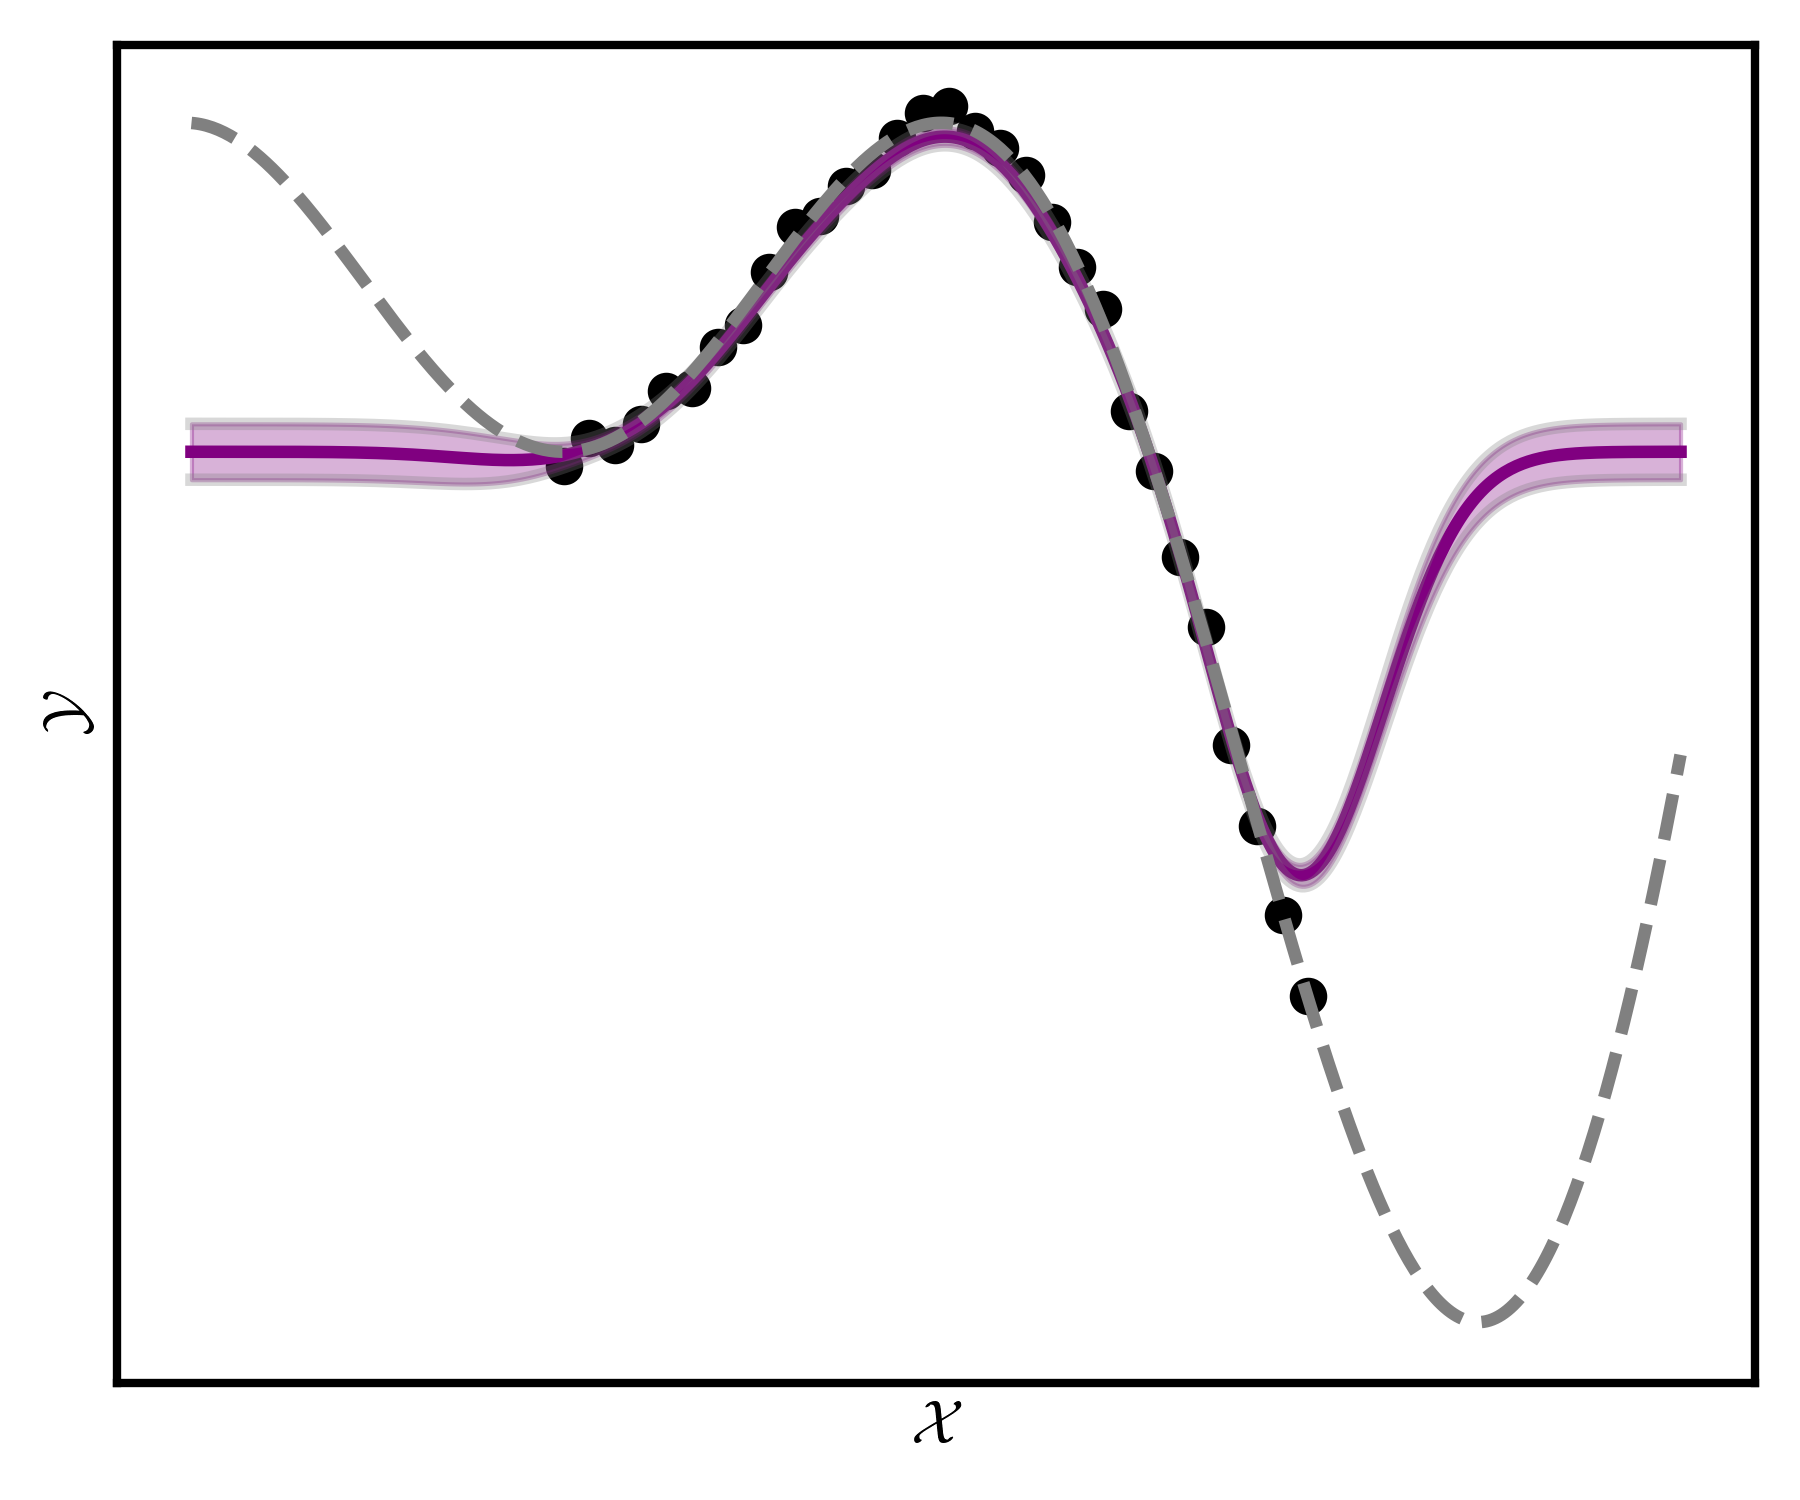
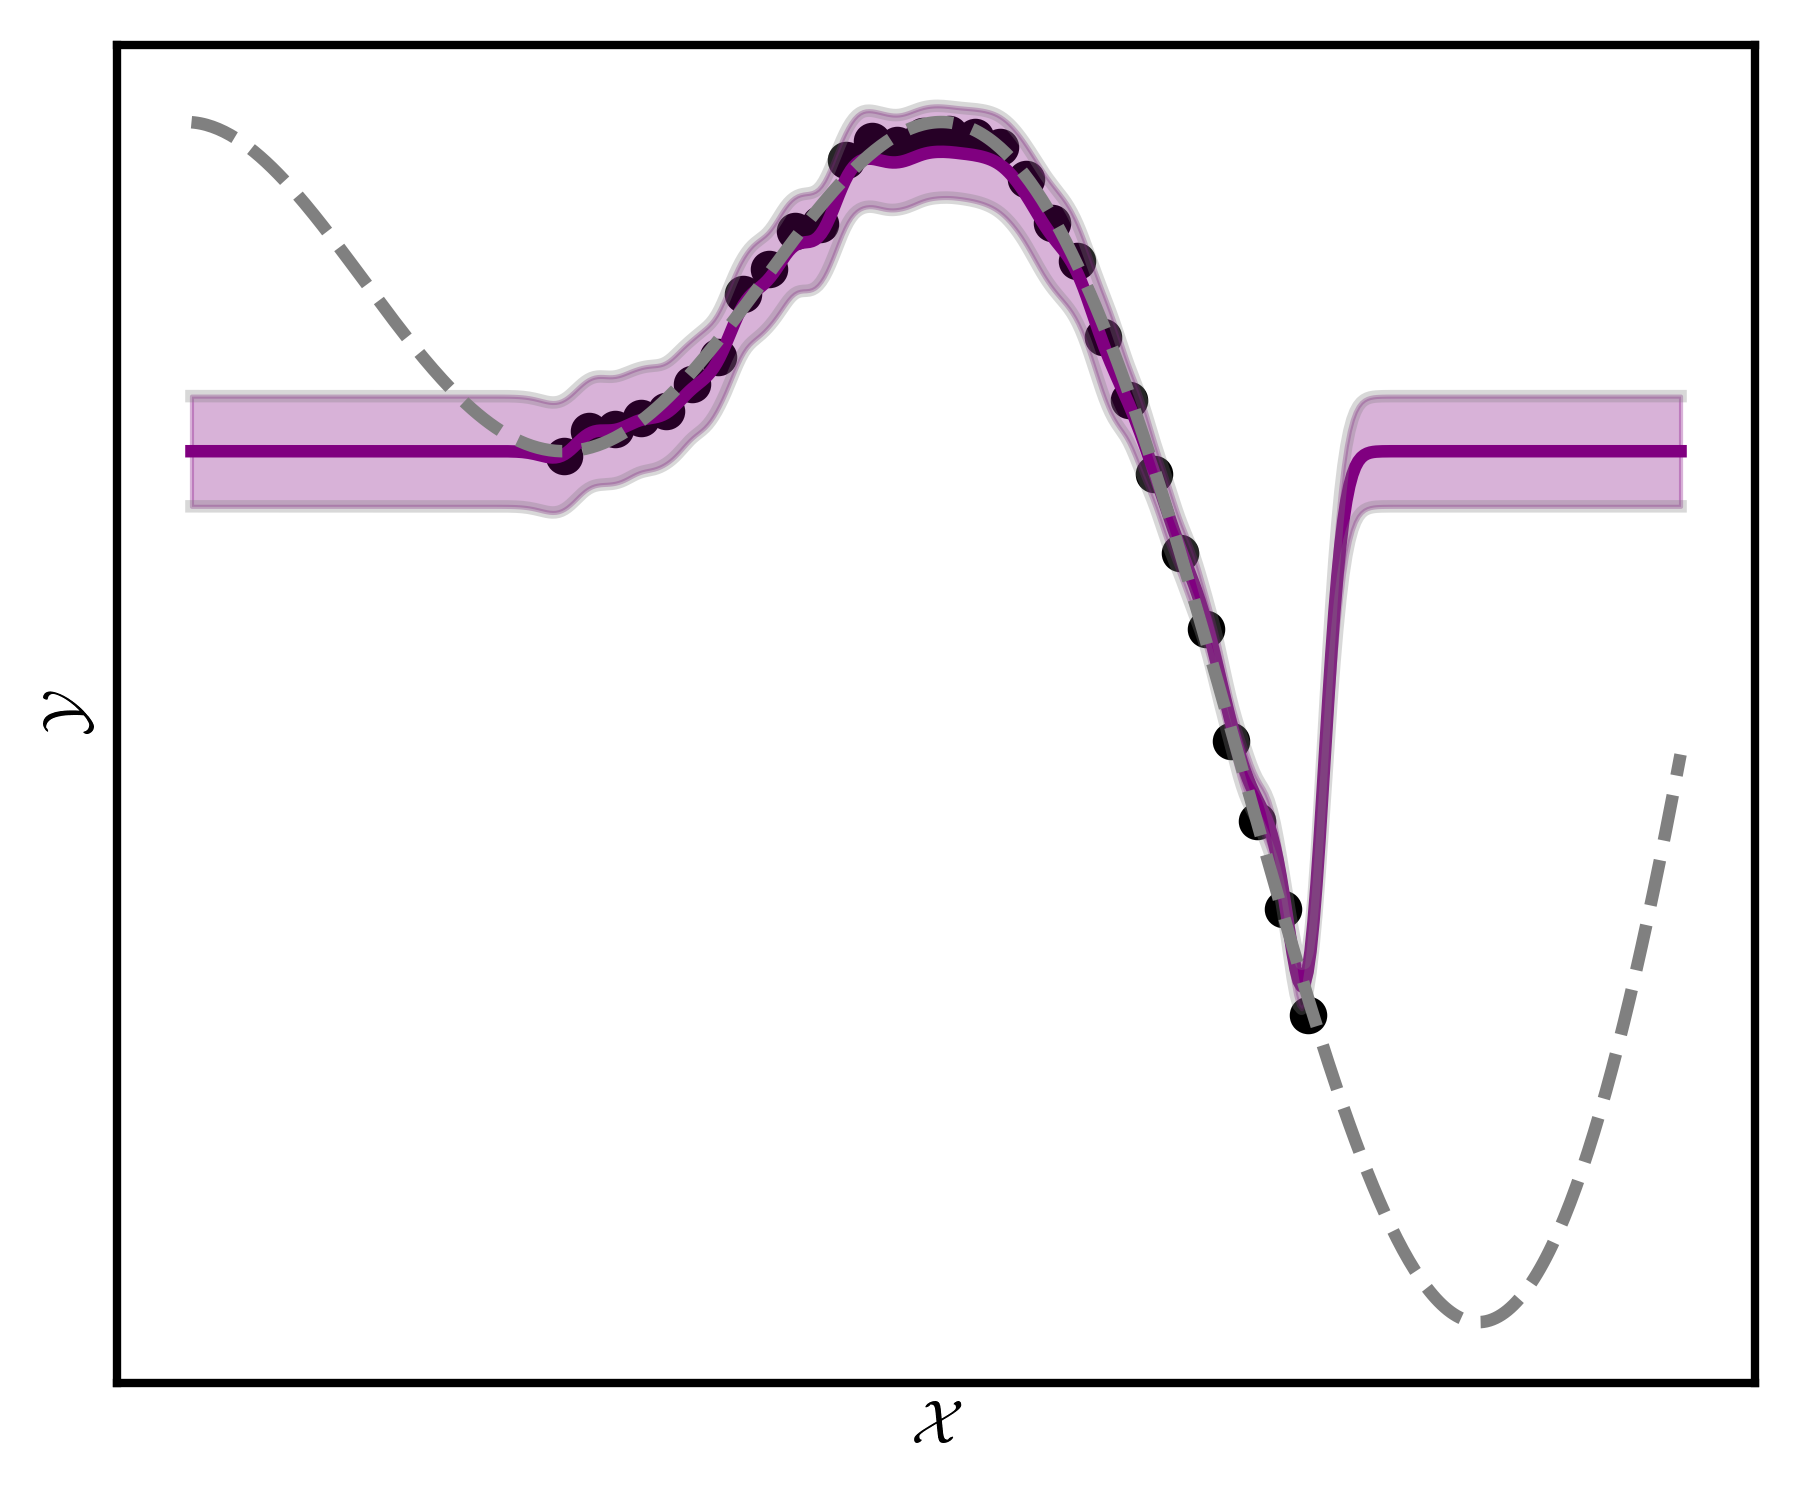
minor changes

Changed region(s): [[0.0933, 0.0613, 0.9333, 0.7053]]

diff --git a/examples/example_gpr.py b/examples/example_gpr.py
@@ -1,3 +1,4 @@
+import numpy as np
 from time import time
 from src.kernels.rbf import RBFKernel
 from src.gpr.gaussian_process import GP
@@ -6,6 +7,8 @@ from input.testfuncs_1d import oscillatory_increasing_amplitude
 from src.solver.classic.cg import CG
 from src.solver.classic.chol import Cholesky
 from src.solver.classic.pcg import PCG
+
+np.random.seed(42)
 
 # choose function
 func = oscillatory_increasing_amplitude
